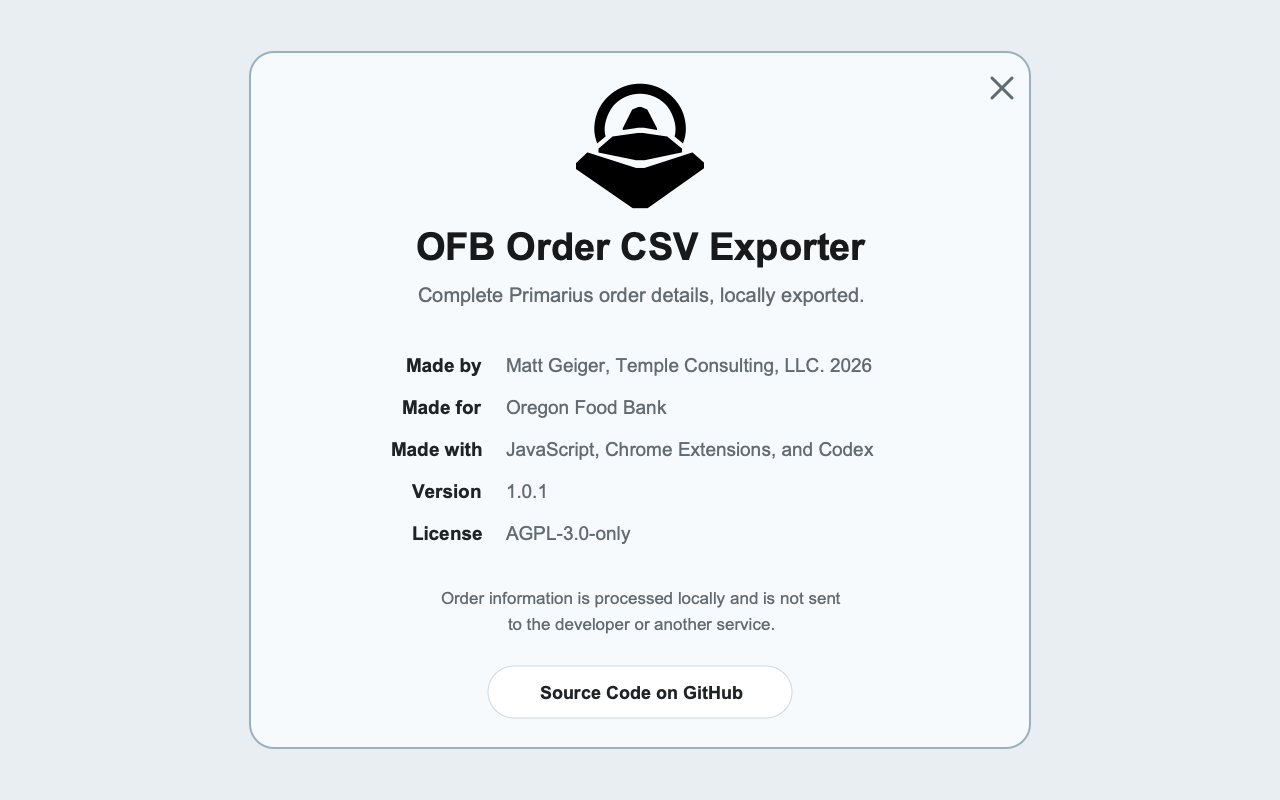
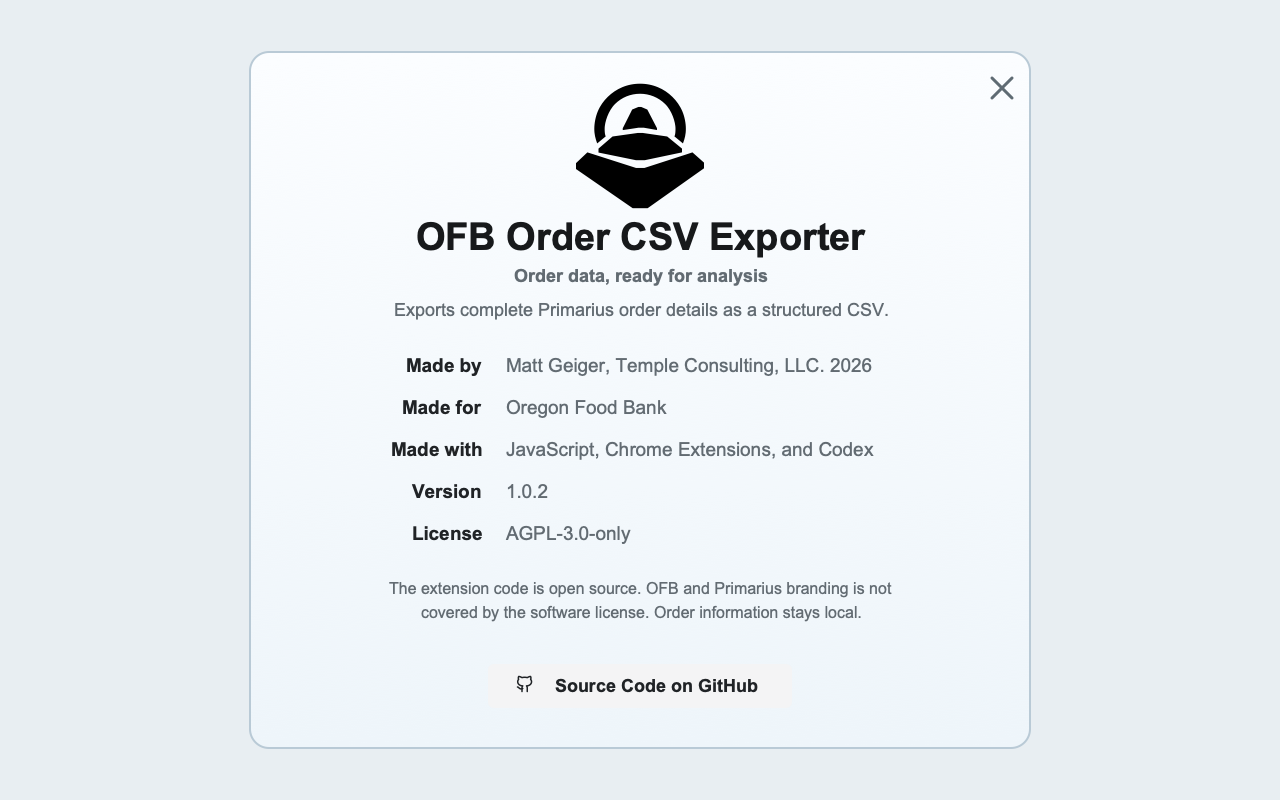
Polish About dialog for v1.0.2

diff --git a/content.css b/content.css
@@ -77,50 +77,72 @@
 }
 
 #ofb-export-about-dialog {
-  background: #f7fafc;
-  border: 1px solid #9aafbf;
-  border-radius: 18px;
-  box-shadow: 0 18px 55px rgb(17 24 39 / 32%);
+  background: transparent;
+  border: 0;
   box-sizing: border-box;
   color: #202326;
   font-family: Arial, Helvetica, sans-serif;
   margin: auto;
-  max-height: min(720px, calc(100vh - 32px));
-  max-width: min(560px, calc(100vw - 32px));
-  overflow: auto;
-  padding: 34px 42px 36px;
+  max-height: calc(100vh - 32px);
+  max-width: min(576px, calc(100vw - 32px));
+  overflow: visible;
+  padding: 0;
   text-align: center;
   width: 100%;
 }
 
 #ofb-export-about-dialog::backdrop {
-  background: rgb(18 29 38 / 48%);
-  backdrop-filter: blur(2px);
+  background: rgb(0 0 0 / 40%);
+  backdrop-filter: blur(6px);
+  -webkit-backdrop-filter: blur(6px);
+}
+
+#ofb-export-about-card {
+  align-items: center;
+  background-color: hsl(211 50% 99%);
+  background-image: linear-gradient(180deg, #fbfdff 0%, #eef5fa 100%);
+  border: 1px solid hsl(211 30% 82%);
+  border-radius: 19px;
+  box-shadow:
+    1px 3.5px 7px 0.5px rgb(0 0 0 / 20%),
+    1px 1px 2px -0.5px rgb(0 0 0 / 20%);
+  box-sizing: border-box;
+  display: flex;
+  flex-direction: column;
+  gap: 24px;
+  max-height: calc(100vh - 32px);
+  overflow: auto;
+  padding: 40px;
+  width: 100%;
 }
 
 #ofb-export-about-close {
   align-items: center;
   background: transparent;
-  border: 2px solid transparent;
-  border-radius: 999px;
+  border: 0;
+  border-radius: 4px;
   color: #5f6b73;
   cursor: pointer;
   display: flex;
-  font-size: 30px;
-  font-weight: 300;
-  height: 38px;
+  height: 24px;
   justify-content: center;
-  line-height: 1;
-  padding: 0 0 3px;
+  opacity: 0.7;
+  padding: 0;
   position: absolute;
-  right: 14px;
-  top: 14px;
-  width: 38px;
+  right: 40px;
+  top: 16px;
+  transition: opacity 160ms cubic-bezier(0.22, 1, 0.36, 1);
+  width: 24px;
 }
 
 #ofb-export-about-close:hover {
-  background: #e6edf2;
   color: #202326;
+  opacity: 1;
+}
+
+#ofb-export-about-close svg {
+  height: 16px;
+  width: 16px;
 }
 
 #ofb-export-about-close:focus-visible,
@@ -132,37 +154,56 @@
 
 #ofb-export-about-logo {
   display: block;
-  height: 96px;
-  margin: 4px auto 14px;
+  height: 112px;
+  margin: 0 auto;
   object-fit: contain;
-  width: 96px;
+  width: 112px;
+}
+
+#ofb-export-about-identity {
+  display: flex;
+  flex-direction: column;
+  gap: 16px;
+}
+
+#ofb-export-about-heading {
+  text-align: center;
 }
 
 #ofb-export-about-title {
   color: #17191b;
-  font-size: 28px;
-  font-weight: 700;
+  font-size: 30px;
+  font-weight: 600;
+  letter-spacing: -0.025em;
   line-height: 1.15;
   margin: 0;
 }
 
-#ofb-export-about-summary {
+#ofb-export-about-tagline {
   color: #626b72;
-  font-size: 15px;
-  line-height: 1.5;
-  margin: 10px auto 26px;
-  max-width: 410px;
+  font-size: 14px;
+  font-weight: 500;
+  line-height: 1.4;
+  margin: 4px 0 0;
+}
+
+#ofb-export-about-description {
+  color: #626b72;
+  font-size: 14px;
+  line-height: 24px;
+  margin: 12px 0 0;
 }
 
 #ofb-export-about-facts {
   display: grid;
   font-size: 14px;
-  gap: 10px 18px;
+  gap: 8px 16px;
   grid-template-columns: max-content minmax(0, 1fr);
-  line-height: 1.45;
+  line-height: 1.5;
   margin: 0 auto;
-  max-width: 440px;
+  max-width: 448px;
   text-align: left;
+  width: 100%;
 }
 
 #ofb-export-about-facts dt {
@@ -179,7 +220,7 @@
 
 #ofb-export-about-facts a {
   color: #202326;
-  font-weight: 600;
+  font-weight: 500;
   text-decoration: none;
 }
 
@@ -191,31 +232,48 @@
 #ofb-export-about-legal {
   color: #626b72;
   font-size: 12px;
-  line-height: 1.55;
-  margin: 26px auto 20px;
-  max-width: 430px;
+  line-height: 20px;
+  margin: 0 auto;
+  max-width: 448px;
 }
 
 #ofb-export-about-source {
-  background: #fff;
-  border: 1px solid #d1d9df;
-  border-radius: 999px;
-  box-shadow: 0 3px 10px rgb(17 24 39 / 14%);
+  align-items: center;
+  background: hsl(240 4.8% 95.9%);
+  border: 0;
+  border-radius: 6px;
+  box-shadow:
+    1px 3.5px 7px 0.5px rgb(0 0 0 / 20%),
+    1px 1px 2px -0.5px rgb(0 0 0 / 20%);
   color: #202326;
-  display: inline-block;
+  display: inline-flex;
   font-size: 14px;
-  font-weight: 700;
-  padding: 10px 18px;
+  font-weight: 500;
+  gap: 8px;
+  height: 36px;
+  justify-content: center;
+  padding: 0 16px;
   text-decoration: none;
+  transition: background-color 160ms cubic-bezier(0.22, 1, 0.36, 1);
 }
 
 #ofb-export-about-source:hover {
-  background: #edf3f7;
+  background: hsl(240 4.8% 91%);
+}
+
+#ofb-export-about-source svg {
+  height: 16px;
+  width: 16px;
 }
 
 @media (max-width: 520px) {
-  #ofb-export-about-dialog {
-    padding: 30px 22px 28px;
+  #ofb-export-about-card {
+    gap: 20px;
+    padding: 32px 24px;
+  }
+
+  #ofb-export-about-close {
+    right: 20px;
   }
 
   #ofb-export-about-facts {

diff --git a/content.js b/content.js
@@ -190,6 +190,41 @@
     return icon;
   }
 
+  function createCloseIcon() {
+    const namespace = "http://www.w3.org/2000/svg";
+    const icon = document.createElementNS(namespace, "svg");
+    icon.setAttribute("viewBox", "0 0 24 24");
+    icon.setAttribute("fill", "none");
+    icon.setAttribute("stroke", "currentColor");
+    icon.setAttribute("stroke-width", "2");
+    icon.setAttribute("stroke-linecap", "round");
+    icon.setAttribute("aria-hidden", "true");
+    const first = document.createElementNS(namespace, "path");
+    first.setAttribute("d", "M18 6 6 18");
+    const second = document.createElementNS(namespace, "path");
+    second.setAttribute("d", "m6 6 12 12");
+    icon.append(first, second);
+    return icon;
+  }
+
+  function createGithubIcon() {
+    const namespace = "http://www.w3.org/2000/svg";
+    const icon = document.createElementNS(namespace, "svg");
+    icon.setAttribute("viewBox", "0 0 24 24");
+    icon.setAttribute("fill", "none");
+    icon.setAttribute("stroke", "currentColor");
+    icon.setAttribute("stroke-width", "2");
+    icon.setAttribute("stroke-linecap", "round");
+    icon.setAttribute("stroke-linejoin", "round");
+    icon.setAttribute("aria-hidden", "true");
+    const body = document.createElementNS(namespace, "path");
+    body.setAttribute("d", "M15 22v-4a4.8 4.8 0 0 0-1-3.5c3.28 0 6.72-2 6.72-5.5A4.5 4.5 0 0 0 19.5 5.8 4.22 4.22 0 0 0 19.4 2S18.23 1.65 15 3.48a13.38 13.38 0 0 0-7 0C4.77 1.65 3.6 2 3.6 2a4.22 4.22 0 0 0-.1 3.8A4.5 4.5 0 0 0 2.28 9c0 3.5 3.44 5.5 6.72 5.5-.39.49-.68 1.05-.85 1.65-.17.6-.22 1.23-.15 1.85v4");
+    const branch = document.createElementNS(namespace, "path");
+    branch.setAttribute("d", "M9 18c-4.51 2-5-2-7-2");
+    icon.append(body, branch);
+    return icon;
+  }
+
   function createAboutDialog() {
     const existing = document.getElementById(ABOUT_DIALOG_ID);
     if (existing) return existing;
@@ -197,56 +232,74 @@
     const dialog = document.createElement("dialog");
     dialog.id = ABOUT_DIALOG_ID;
     dialog.setAttribute("aria-labelledby", "ofb-export-about-title");
+    dialog.setAttribute("aria-describedby", "ofb-export-about-description");
 
     const closeButton = document.createElement("button");
     closeButton.id = "ofb-export-about-close";
     closeButton.type = "button";
     closeButton.setAttribute("aria-label", "Close About dialog");
-    closeButton.textContent = "×";
+    closeButton.append(createCloseIcon());
     closeButton.addEventListener("click", () => dialog.close());
+
+    const card = document.createElement("div");
+    card.id = "ofb-export-about-card";
 
     const logo = document.createElement("img");
     logo.id = "ofb-export-about-logo";
     logo.src = chrome.runtime.getURL("assets/temple-logo-light.svg");
     logo.alt = "Temple Consulting, LLC.";
-    logo.width = 96;
-    logo.height = 96;
+    logo.width = 112;
+    logo.height = 112;
+
+    const heading = document.createElement("div");
+    heading.id = "ofb-export-about-heading";
 
     const title = document.createElement("h2");
     title.id = "ofb-export-about-title";
     title.textContent = "OFB Order CSV Exporter";
 
-    const summary = document.createElement("p");
-    summary.id = "ofb-export-about-summary";
-    summary.textContent = "Turns complete Primarius order details into a structured, analysis-ready CSV.";
+    const tagline = document.createElement("p");
+    tagline.id = "ofb-export-about-tagline";
+    tagline.textContent = "Order data, ready for analysis";
+
+    const description = document.createElement("p");
+    description.id = "ofb-export-about-description";
+    description.textContent = "Exports complete Primarius order details as a structured CSV.";
+    heading.append(title, tagline, description);
+
+    const identity = document.createElement("div");
+    identity.id = "ofb-export-about-identity";
+    identity.append(logo, heading);
 
     const facts = document.createElement("dl");
     facts.id = "ofb-export-about-facts";
 
     const maker = document.createElement("span");
     maker.append(
-      externalLink("Matt Geiger", "https://github.com/MattGeiger"),
+      externalLink("Matt Geiger", "https://www.geigertron.com/"),
       ", ",
       externalLink("Temple Consulting, LLC.", "https://templepdx.com/"),
       " 2026",
     );
     addFact(facts, "Made by", maker);
-    addFact(facts, "Made for", "Oregon Food Bank");
+    addFact(facts, "Made for", externalLink("Oregon Food Bank", "https://www.oregonfoodbank.org/"));
     addFact(facts, "Made with", "JavaScript, Chrome Extensions, and Codex");
     addFact(facts, "Version", chrome.runtime.getManifest().version);
     addFact(facts, "License", "AGPL-3.0-only");
 
     const legal = document.createElement("p");
     legal.id = "ofb-export-about-legal";
-    legal.textContent = "This extension is open-source software. It processes order information locally and does not send it to another service.";
+    legal.textContent = "The extension code is open source. Oregon Food Bank and Primarius names and branding are not covered by the software license. Order information is processed locally and is not sent to the developer.";
 
     const source = externalLink(
       "Source Code on GitHub",
       "https://github.com/MattGeiger/ofb-order-csv-exporter",
     );
     source.id = "ofb-export-about-source";
+    source.prepend(createGithubIcon());
 
-    dialog.append(closeButton, logo, title, summary, facts, legal, source);
+    card.append(identity, facts, legal, source);
+    dialog.append(card, closeButton);
     dialog.addEventListener("click", (event) => {
       if (event.target === dialog) dialog.close();
     });

diff --git a/CHANGELOG.md b/CHANGELOG.md
@@ -1,5 +1,11 @@
 # Changelog
 
+## 1.0.2
+
+- Restyle the About dialog to match FEED's card, typography, spacing, backdrop, and controls.
+- Add linked Oregon Food Bank credit and a GitHub icon to the source button.
+- Derive the displayed version from the extension manifest.
+
 ## 1.0.1
 
 - Add OFB extension icons and Temple Consulting credits.